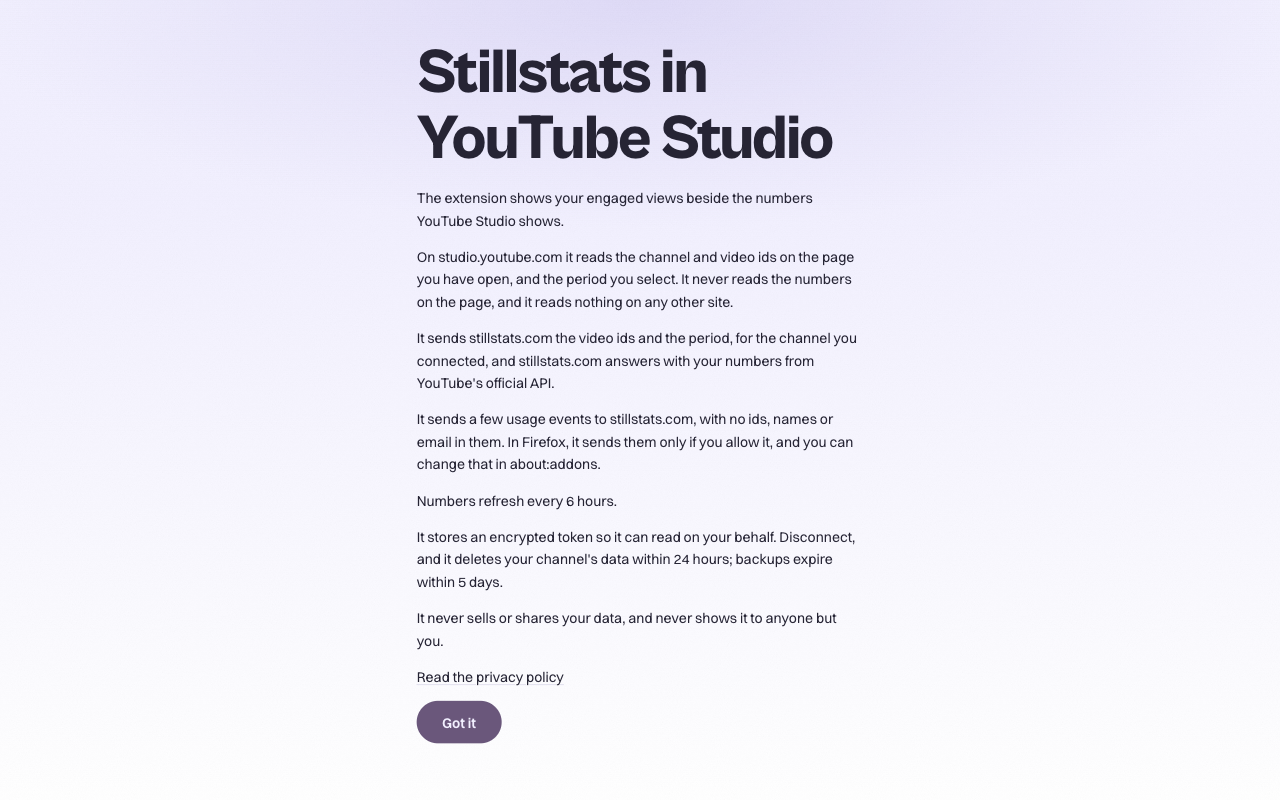
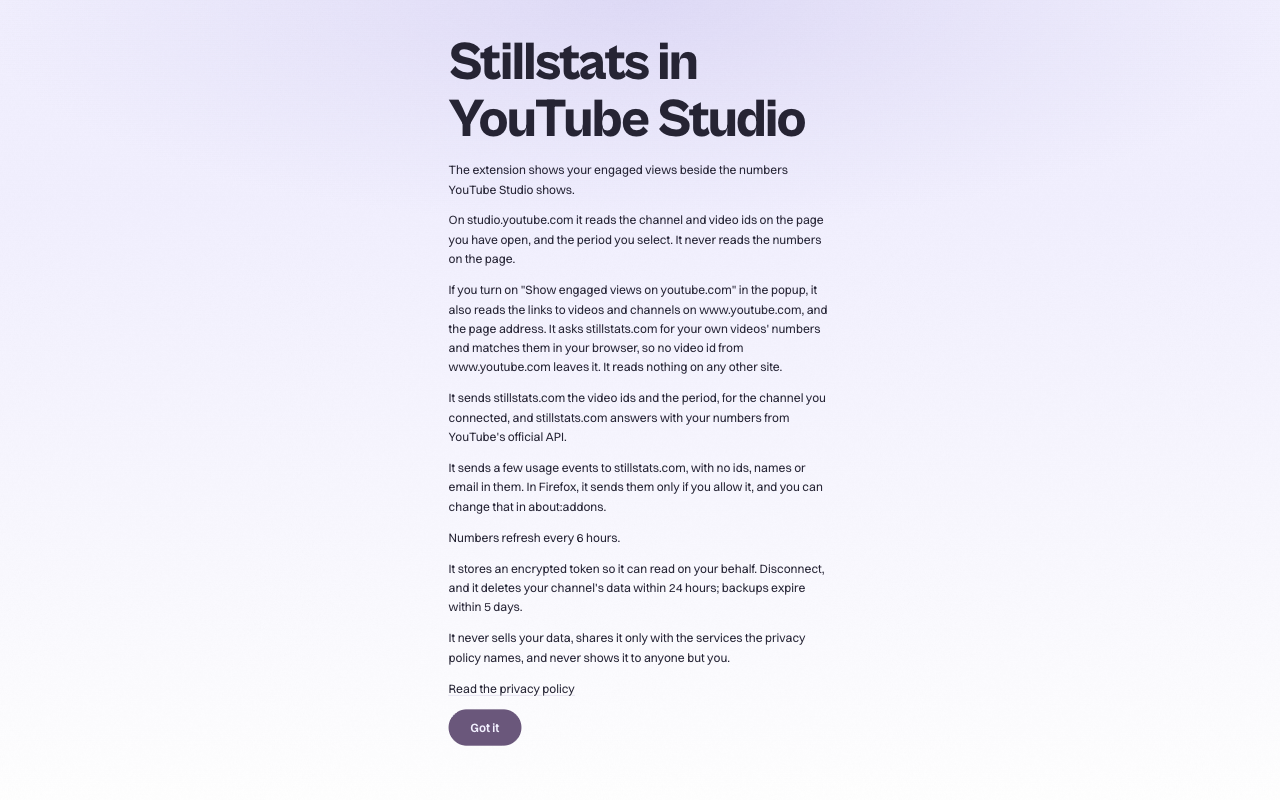
stillstats#27 the store's first-run screenshot shows the current disclosure line
The first-run page gained the youtube.com paragraph in 0.3.0 and a longer sharing line, and now ends at 1091.5 CSS pixels, past the 960 of its window. The script shoots it in a window of 1792 by 1120 instead, the same 1.6 ratio, still scaled to 1280 by 800. The page itself is unchanged. Carried over from creator-analytics#1113.

Changed region(s): [[0.3125, 0.0312, 0.6562, 0.9375]]

diff --git a/apps/extension/test/screenshot/take-screenshots.ts b/apps/extension/test/screenshot/take-screenshots.ts
@@ -20,7 +20,7 @@
 //
 // Each Studio page is drawn in a window of 1280 by 960 CSS pixels and shot zoomed in on its
 // surface, the popup is shot at twice its size on the page background of stillstats.com, and the
-// first-run page, which opens on install, is shot whole in a window of 1536 by 960: every image is
+// first-run page, which opens on install, is shot whole in a window of 1792 by 1120: every image is
 // 1280 by 800 pixels, the size both stores ask for. With FULL_WINDOW set, each Studio page is shot
 // whole instead, to see where its regions lie. The images carry no "Sample data" label (Nick,
 // 2026-10-16). It also draws the Chrome Web Store's small promo tile, 440 by 280: the S of
@@ -395,11 +395,11 @@ async function shootPopup(
 }
 
 /**
- * The first-run page, which opens in a tab on install, whole in a window of 1536 by 960, which its
+ * The first-run page, which opens in a tab on install, whole in a window of 1792 by 1120, which its
  * button fits in, scaled to 1280 by 800.
  */
 async function shootFirstRun(chrome: Chrome, extensionId: string): Promise<Buffer> {
-  const window = { width: 1536, height: 960 }
+  const window = { width: 1792, height: 1120 }
   const tab = await openTab(chrome, `chrome-extension://${extensionId}/first-run.html`, {
     ...window,
     deviceScaleFactor: 1,
